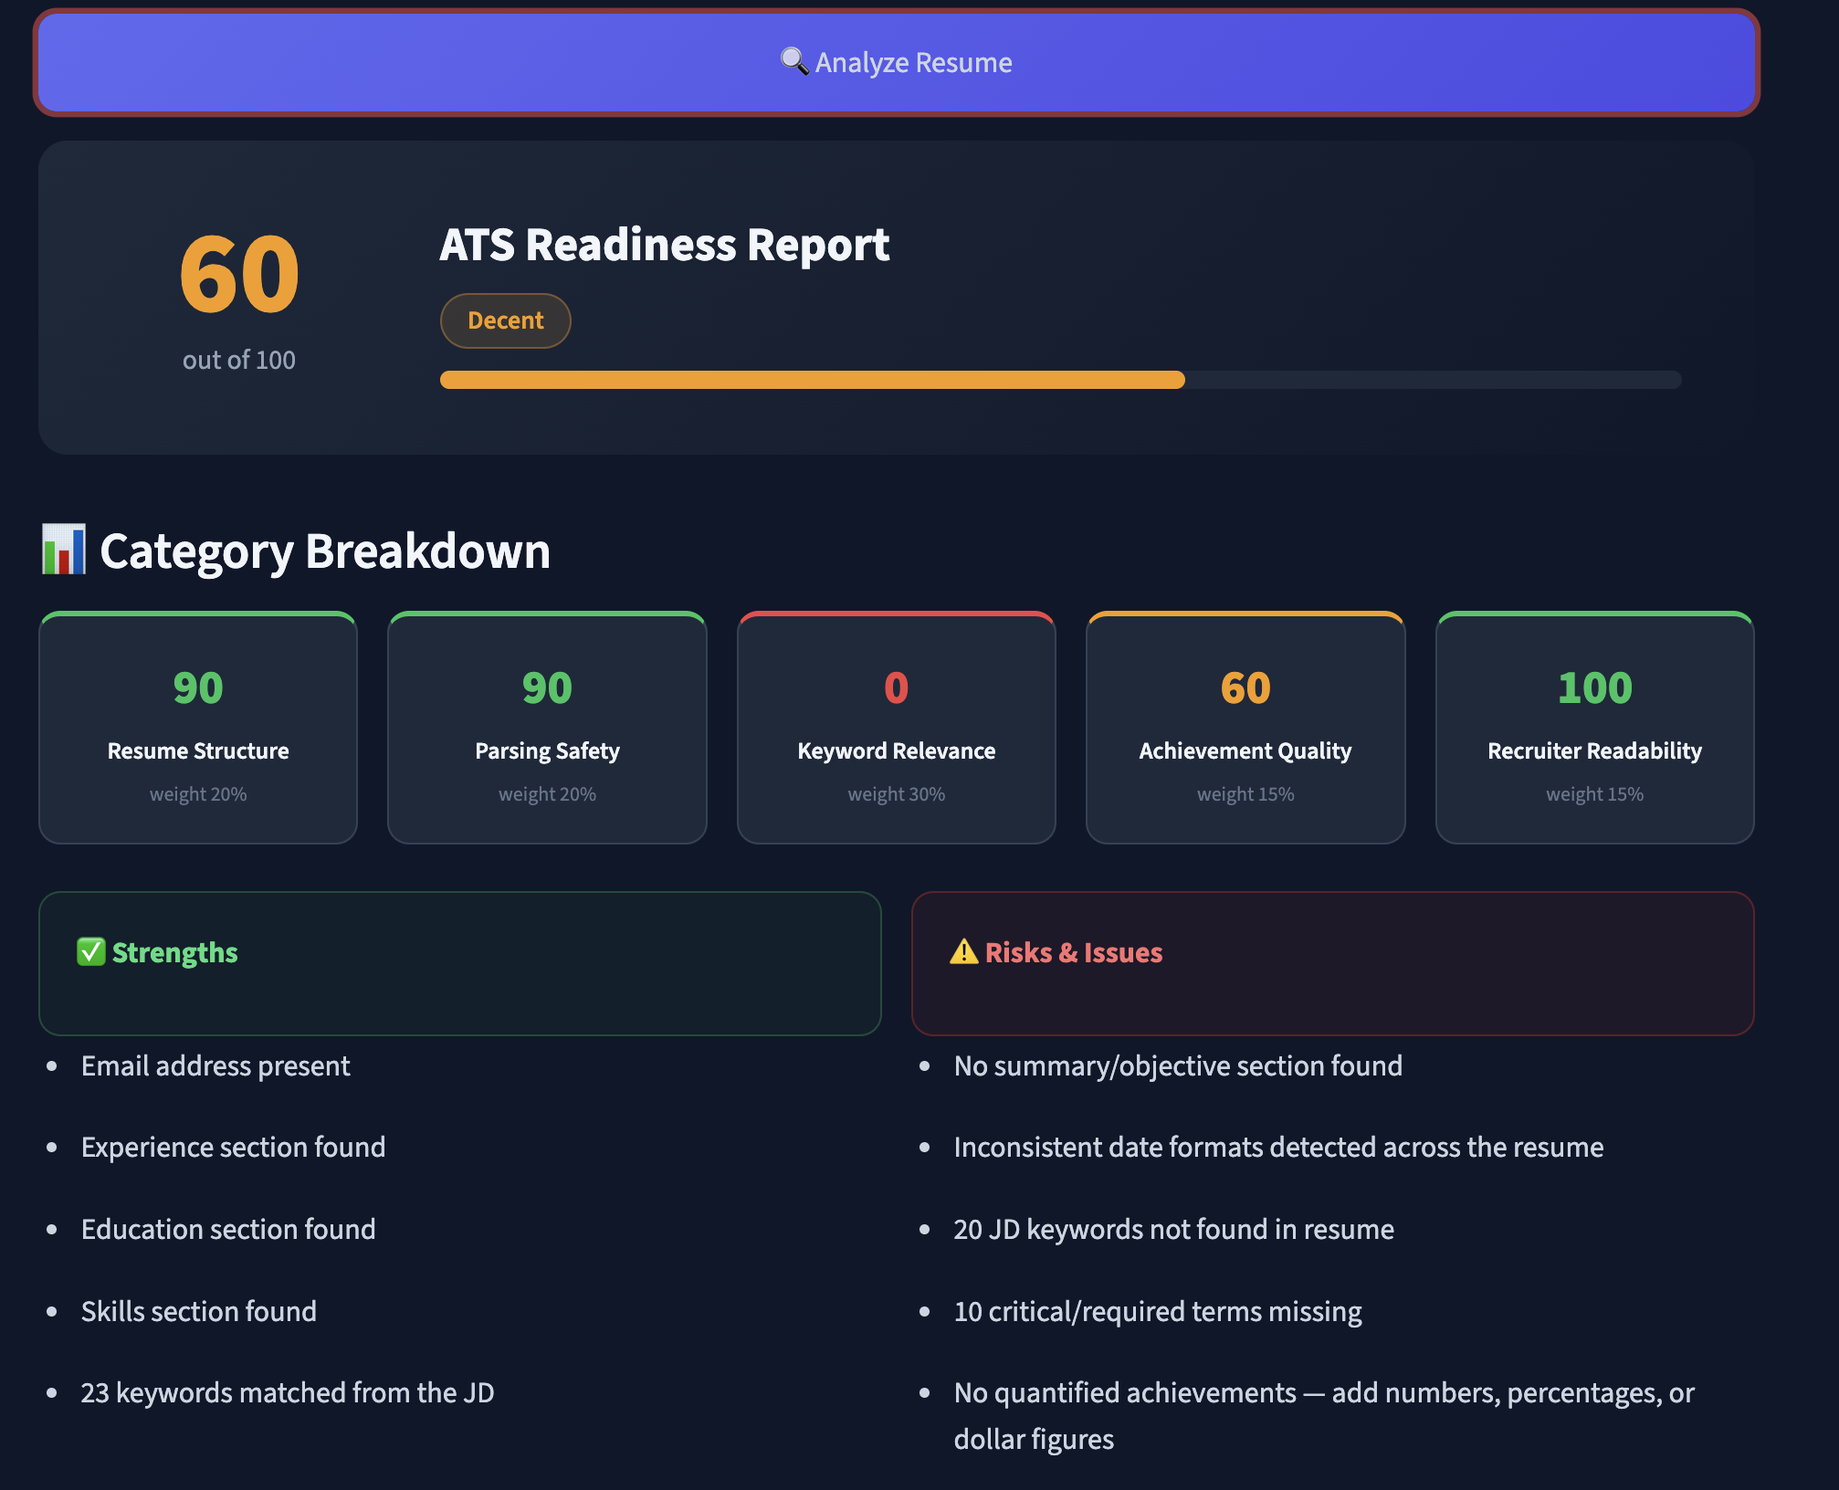
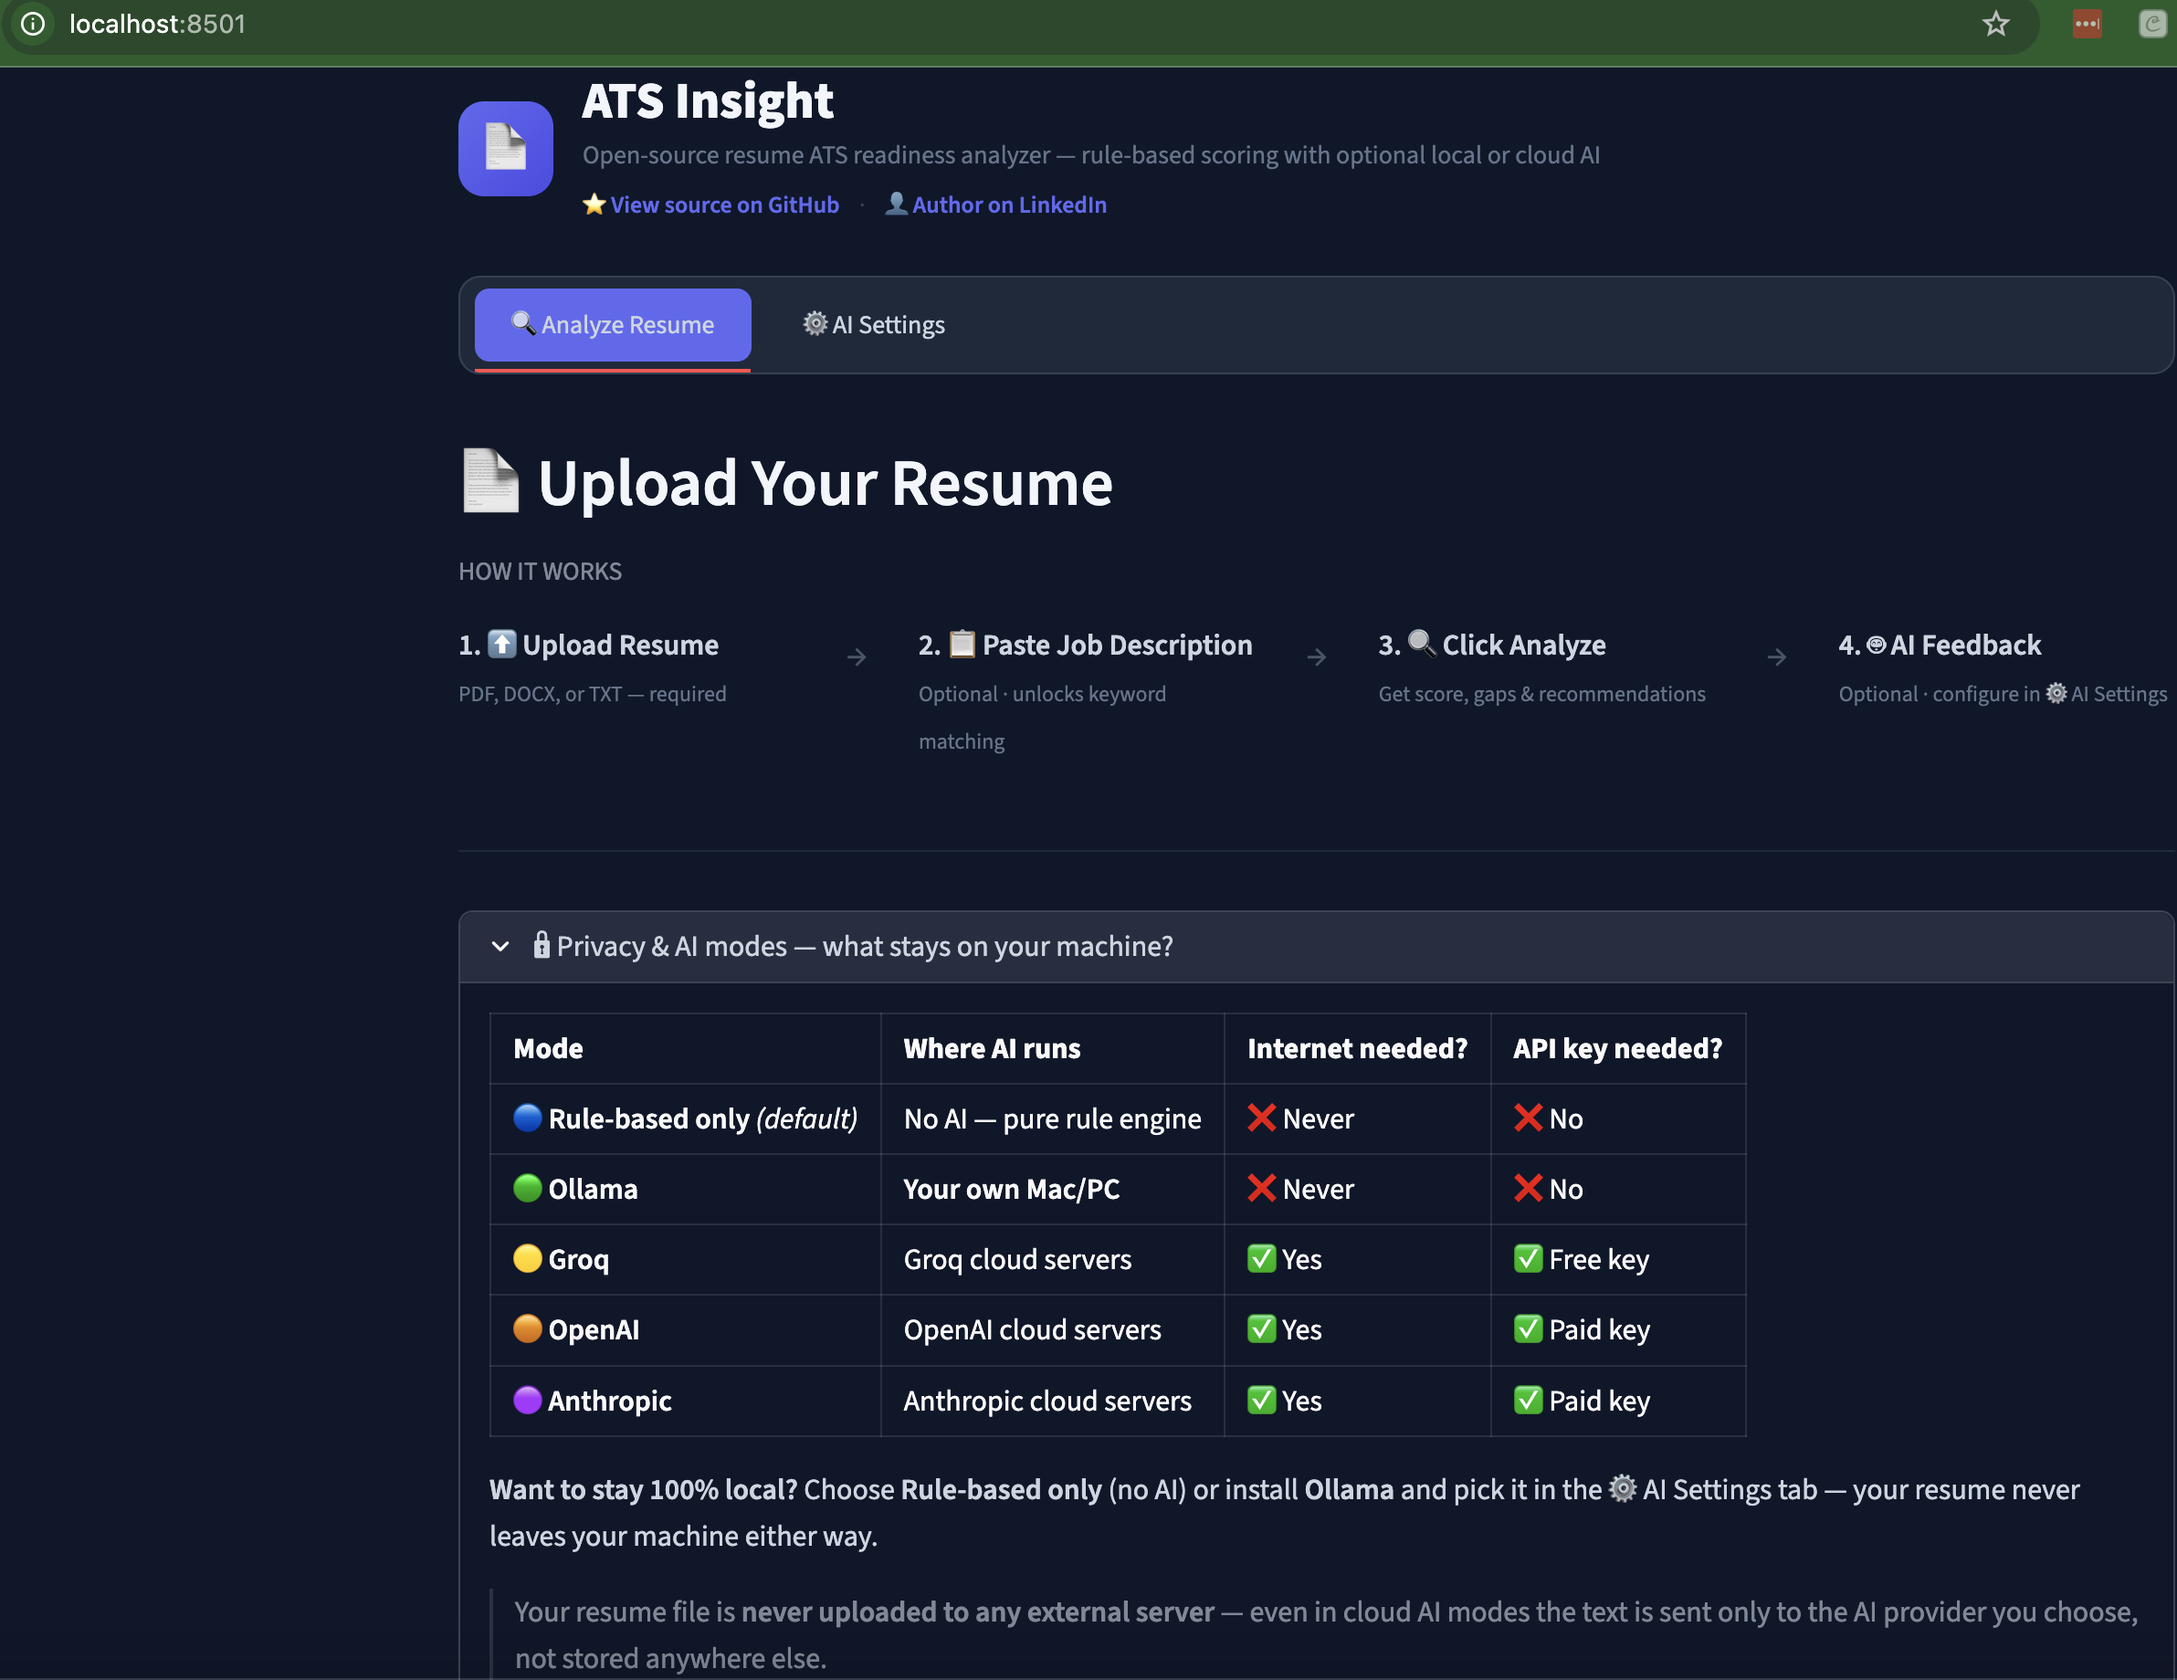
security: XSS escaping, fix silent except, upgrade pip/setuptools, add Security section to README

diff --git a/app/ui/results_page.py b/app/ui/results_page.py
@@ -2,6 +2,7 @@
 Results page — displays score, keyword analysis, warnings, recommendations, and LLM info.
 """
 
+import html as html_mod
 from typing import Optional
 
 import streamlit as st
@@ -309,7 +310,7 @@ def render_results(
                 chips = " ".join(
                     f'<span style="background:#166534; color:#4ade80; border-radius:20px;'
                     f' padding:2px 10px; font-size:12px; margin:2px; display:inline-block;">'
-                    f'{k}</span>'
+                    f'{html_mod.escape(k)}</span>'
                     for k in keyword_match.matched_keywords[:30]
                 )
                 st.markdown(chips, unsafe_allow_html=True)
@@ -322,7 +323,7 @@ def render_results(
                 chips = " ".join(
                     f'<span style="background:#7c1d1d; color:#fca5a5; border-radius:20px;'
                     f' padding:2px 10px; font-size:12px; margin:2px; display:inline-block;">'
-                    f'{k}</span>'
+                    f'{html_mod.escape(k)}</span>'
                     for k in keyword_match.critical_missing
                 )
                 st.markdown(chips, unsafe_allow_html=True)
@@ -331,7 +332,7 @@ def render_results(
                 chips = " ".join(
                     f'<span style="background:#1e293b; color:#94a3b8; border:1px solid #334155;'
                     f' border-radius:20px; padding:2px 10px; font-size:12px; margin:2px;'
-                    f' display:inline-block;">{k}</span>'
+                    f' display:inline-block;">{html_mod.escape(k)}</span>'
                     for k in keyword_match.missing_keywords[:15]
                 )
                 st.markdown(chips, unsafe_allow_html=True)

diff --git a/app/ai/llm_client.py b/app/ai/llm_client.py
@@ -72,8 +72,8 @@ class OllamaClient:
             if resp.status_code == 200:
                 data = resp.json()
                 return [m["name"] for m in data.get("models", [])]
-        except Exception:
-            pass
+        except Exception as exc:  # network error, Ollama not running, etc.
+            logger.debug("[Ollama] list_models failed: %s", exc)
         return []
 
     # Models can take a long time to load on first use (weights loaded into RAM/VRAM).

diff --git a/README.md b/README.md
@@ -467,6 +467,45 @@ ATS-Readiness-Checker/          ← repo root (you are here)
 
 ---
 
+## Security
+
+Every commit is verified against the following checks before merging.
+
+### Tools & What They Cover
+
+| Tool | What it checks | Last result |
+|---|---|---|
+| **Bandit** | Static analysis of Python source — injection risks, unsafe calls, silent exception swallowing, hardcoded secrets | ✅ 0 issues |
+| **pip-audit** | All installed packages against NIST NVD + PyPI advisory databases for known CVEs | ✅ 0 vulnerabilities |
+| **Manual grep** | Source code scanned for `subprocess`, `os.system`, `eval`, `exec`, hardcoded API key patterns (`sk-`, `gsk_`) | ✅ 0 findings |
+| **git ls-files** | Confirms `.env` (real keys) is never tracked in version control | ✅ Not tracked |
+| **XSS review** | Any user-supplied data (resume text, JD keywords) rendered via `unsafe_allow_html` is escaped with `html.escape()` | ✅ All escaped |
+
+### How to Run Locally
+
+```bash
+source .venv/bin/activate
+
+# Static security analysis
+bandit -r app/ -f txt -q
+
+# Dependency CVE scan
+pip-audit
+
+# All tests
+pytest tests/ -v
+```
+
+### Security Design Principles
+
+- **No data leaves your machine** unless you explicitly choose a cloud AI provider (Groq, OpenAI, Anthropic) in AI Settings
+- **API keys** are stored in session state only (memory) or locally in `.env` — never logged or persisted to disk by the app
+- **No shell execution** — no `subprocess`, `os.system`, `eval`, or `exec` anywhere in the codebase
+- **File parsing** is done entirely in-memory (`io.BytesIO`) — no user-uploaded bytes are written to disk
+- **User content in HTML** is HTML-escaped before rendering to prevent XSS
+
+---
+
 ## Build Status
 
 | Phase | Status | Description |
